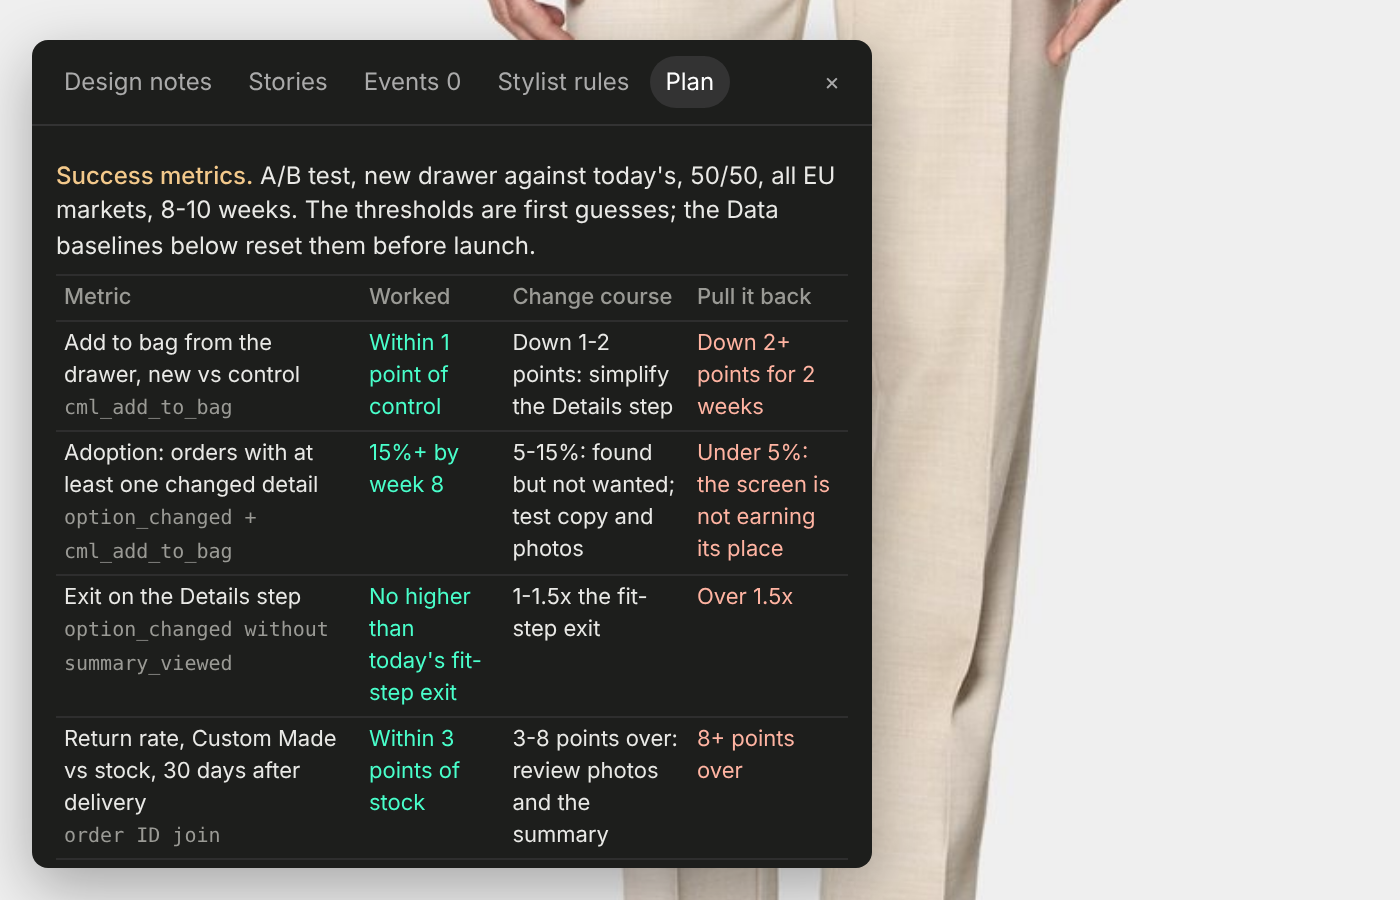
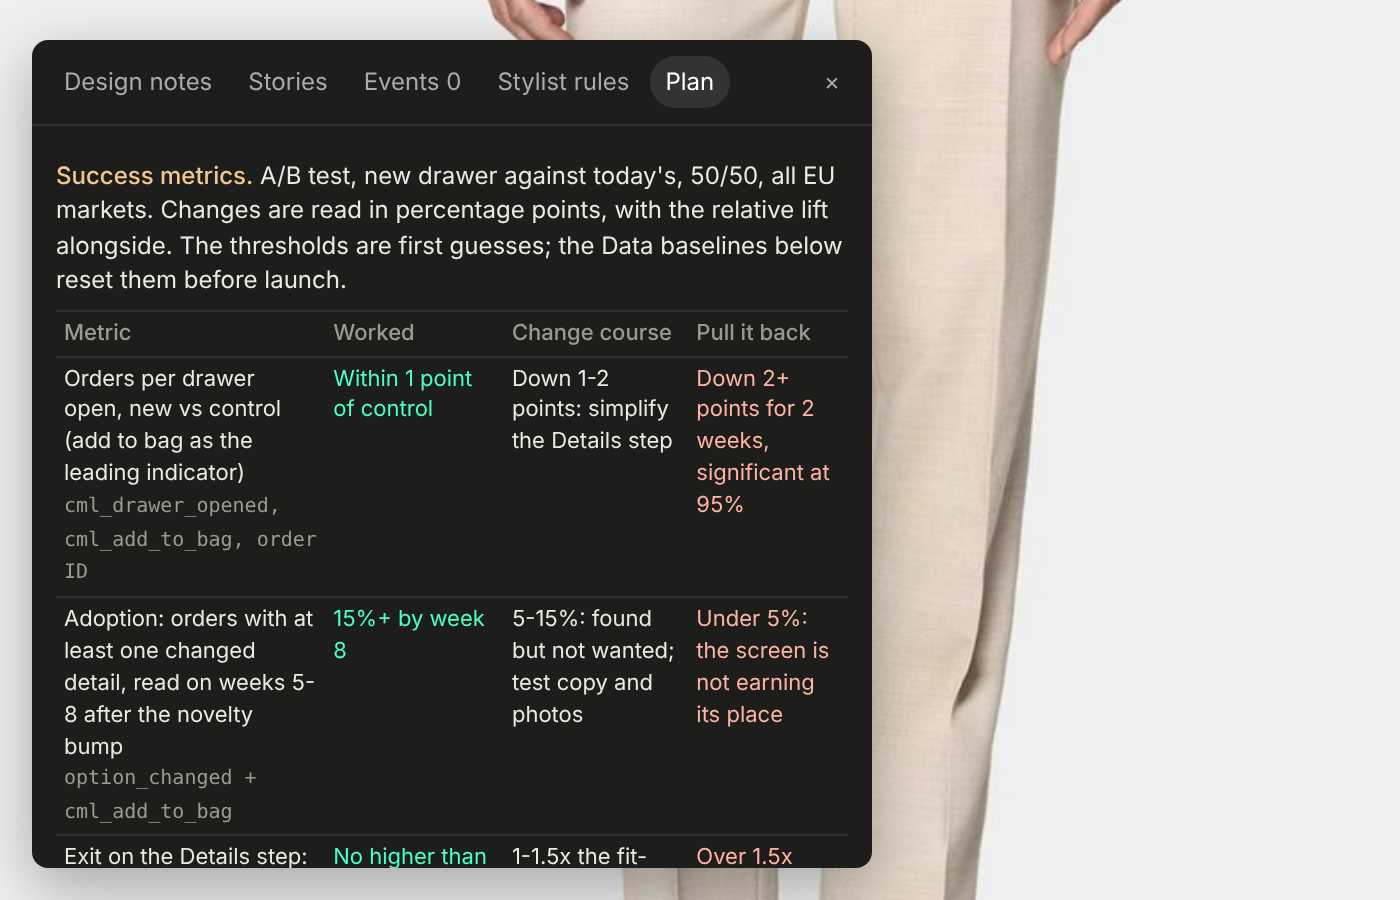
Plan tab: metrics after analyst audit
Claude-Session: https://claude.ai/code/session_01ETR59BjANYhYvmkMk6ZvCT

diff --git a/index.html b/index.html
@@ -674,26 +674,29 @@ function storiesHtml(key){
 }
 function planHtml(){
   const rows=[
-   ['Add to bag from the drawer, new vs control','cml_add_to_bag','Within 1 point of control','Down 1-2 points: simplify the Details step','Down 2+ points for 2 weeks'],
-   ['Adoption: orders with at least one changed detail','option_changed + cml_add_to_bag','15%+ by week 8','5-15%: found but not wanted; test copy and photos','Under 5%: the screen is not earning its place'],
-   ['Exit on the Details step','option_changed without summary_viewed','No higher than today\'s fit-step exit','1-1.5x the fit-step exit','Over 1.5x'],
-   ['Return rate, Custom Made vs stock, 30 days after delivery','order ID join','Within 3 points of stock','3-8 points over: review photos and the summary','8+ points over'],
-   ['Stylist pick kept without edits','recommendation_accepted, edits','50%+','25-50%: the rules need the tailors','Under 25%: drop the path'],
+   ['Orders per drawer open, new vs control (add to bag as the leading indicator)','cml_drawer_opened, cml_add_to_bag, order ID','Within 1 point of control','Down 1-2 points: simplify the Details step','Down 2+ points for 2 weeks, significant at 95%'],
+   ['Adoption: orders with at least one changed detail, read on weeks 5-8 after the novelty bump','option_changed + cml_add_to_bag','15%+ by week 8','5-15%: found but not wanted; test copy and photos','Under 5%: the screen is not earning its place'],
+   ['Exit on the Details step: drawer closed or session ended without reaching the summary','option_changed without summary_viewed','No higher than today\'s fit-step exit','1-1.5x the fit-step exit','Over 1.5x'],
+   ['Cancellations of Custom Made orders before they ship (the fastest read on the 1-2 week wait)','order status, made_to_order','Within 1 point of stock orders','1-3 points over: show the delivery date earlier','3+ points over'],
+   ['Return rate and reasons, Custom Made vs stock, 30 days after delivery; cut by size-finder use','order ID join, return reason','Within 3 points of stock; "not what I expected" no higher than stock','3-8 points over, or "not expected" rising: review photos and the summary','8+ points over'],
+   ['Write-off value per 100 drawer orders (a Custom Made return cannot be resold)','returns x cost','Covered by the extra orders the options bring','Not covered: Pricing tests a surcharge','Loss per order grows two months running'],
   ];
   const tbl=`<table class="tt pl"><tr><th>Metric</th><th>Worked</th><th>Change course</th><th>Pull it back</th></tr>${rows.map(([m,ev,...r])=>`<tr><td>${m}<br><span style="color:#9a9a95;font-family:ui-monospace,monospace;font-size:10px">${ev}</span></td>${r.map(c=>`<td>${c}</td>`).join('')}</tr>`).join('')}</table>`;
   const li=a=>`<ul style="margin:4px 0 0;padding-left:16px">${a.map(x=>`<li style="margin:3px 0;line-height:1.4">${x}</li>`).join('')}</ul>`;
-  return `<div class="note"><b>Success metrics.</b> A/B test, new drawer against today\'s, 50/50, all EU markets, 8-10 weeks. The thresholds are first guesses; the Data baselines below reset them before launch.${tbl}</div>
-  <div class="note"><b>Kill switch.</b> Week 2: add to bag down 2 or more points against control, switch the flag off (US9). Returns need 30 days to read, so the first decision is on conversion and adoption; the return read follows.</div>
-  <div class="note"><b>Guardrails.</b> Service contacts about returns or delivery per 100 drawer orders · size-finder use (<code>size_finder_applied</code>) as a read on size doubt · store link clicks (<code>store_handoff_clicked</code>) · switches back to standard details (<code>rec_standard_details</code>) as the cost of the 1-2 week wait · Keep-path add to bag vs today\'s No path, so the three-way screen is not slowing the people who skip fit.</div>
+  return `<div class="note"><b>Success metrics.</b> A/B test, new drawer against today\'s, 50/50, all EU markets. Changes are read in percentage points, with the relative lift alongside. The thresholds are first guesses; the Data baselines below reset them before launch.${tbl}</div>
+  <div class="note"><b>Two decision points.</b> Week 8: conversion, adoption, exit and cancellations. Week 14: returns, because a Custom Made pair takes 1-2 weeks to arrive and 30 days to come back, so the first return read is 6-8 weeks after the order.</div>
+  <div class="note"><b>Kill switch.</b> Week 2: orders per drawer open down 2 or more points against control, significant at 95%, switch the flag off (US9). Data confirms before launch whether week 2 has the traffic to read a 2-point change; if not, the check moves to the first week that does. Cancellations are the early warning in between.</div>
+  <div class="note"><b>Guardrails.</b> Delivery promise kept (Custom Made shipped within 2 weeks) · service contacts per 100 drawer orders, tagged delivery, returns or "what is this option" · Keep-path orders vs today\'s No path, so the three-way screen is not slowing the people who skip fit · median time in the drawer and screens per order, by path, against control · switches back to standard details (<code>rec_standard_details</code>) as the cost of the wait · store link clicks (<code>store_handoff_clicked</code>).</div>
+  <div class="note"><b>Read everything by segment.</b> Mobile vs desktop, new vs returning customer, market, and path (keep, pick, stylist). Stylist-path order rate against pick-path order rate is the real read on the stylist; "pick kept without edits" (<code>recommendation_accepted</code>, 50%+) is the supporting one.</div>
   <div class="note"><b>Validate before building.</b>${li([
    '<b>Usability test</b>, 8-10 people, unmoderated: do they find the options, understand side adjusters from the picture alone, and trust the stylist\'s pick more than plain cards?',
    '<b>Tailoring team review</b> of the stylist rules. They are mine, from trend and tailoring sources; the tailors should own them (US14).',
-   '<b>Data baselines:</b> drawer traffic, fit-step skip rate, conversion and return rate. They replace the guesses above and say whether 8-10 weeks is enough.'])}</div>
+   '<b>Data baselines:</b> drawer traffic, fit-step skip rate, order rate, cancellation and return rate with reasons, and the sample size a 1-point read needs. They replace the guesses above and set the week-2 and week-8 dates.'])}</div>
   <div class="note"><b>Open questions by stakeholder.</b>${li([
    '<b>Production:</b> which fit and detail combinations can be made, and does the live 1-2 week Custom Made lead time hold at Lite\'s volume?',
    '<b>Legal and Customer Service:</b> do Lite pairs follow the Custom Made return rule shown in the prototype (30 days, unworn and unaltered), in every EU market?',
-   '<b>Pricing:</b> do options carry a surcharge? Held at €179 in the prototype.',
-   '<b>Data:</b> the baselines above, and is 8-10 weeks enough traffic for a return read?',
+   '<b>Pricing and Finance:</b> do options carry a surcharge, and what is the write-off cost of a returned Custom Made pair? Held at €179 in the prototype.',
+   '<b>Data:</b> the baselines above, and is 8-10 weeks enough traffic for a conversion read at 1 point?',
    '<b>Tailoring:</b> will you own the rule table, and which rules would you change first?',
    '<b>Brand and content:</b> is "Custom Made" the right label for Lite pairs, and who writes the per-market copy (US13)?'])}</div>
   <div class="note" style="color:#9a9a95">Assumptions not in the brief: delivery times and the return rule come from the live site; price fixed at €179; the live size guide applies to the new pairs.</div>`;

diff --git a/README.md b/README.md
@@ -90,3 +90,4 @@ Delivery & Returns on the product page opens with the live text (event `pdp_acco
 Behind the scenes has a Stories tab (second tab): the user story for the open screen, with acceptance criteria mapped to what is on screen or to an event; "Show all 14" lists every story. Fourteen stories after two senior-PM audits: eight customer stories in flow order, plus feature flag and kill switch, accessibility and mobile, tracking with consent, configuration to the order, EU markets, and tailors owning the rules. Each has a Must/Should priority for v1. Tabs: Design notes, Stories, Events, Stylist rules.
 Design notes audited against the brief (23 Nov): added the one-line trade-off and the "deliberately left out" list on the choose screen, a "least sure about" note on the stylist pick, named sources for choice overload (Chernev, Böckenholt and Goodman 2015) and showrooms (Bell, Gallino and Moreno 2018), corrected the product-page note, and cut two repeated or process notes.
 Behind the scenes has a fifth tab, Plan: the success metrics table with Worked / Change course / Pull it back thresholds, the week-2 kill switch, guardrails, what to validate before building, and the open questions by stakeholder. Tabs: Design notes, Stories, Events, Stylist rules, Plan.
+Metrics audited as a retail product analyst (23 Nov): primary is orders per drawer open; cancellations before shipping, return reasons, delivery promise and write-off value added; two decision points (week 8 conversion, week 14 returns); kill switch paired with significance; segments by device, customer type, market and path. Same in the Plan tab, the one-pager and the metrics slide.
